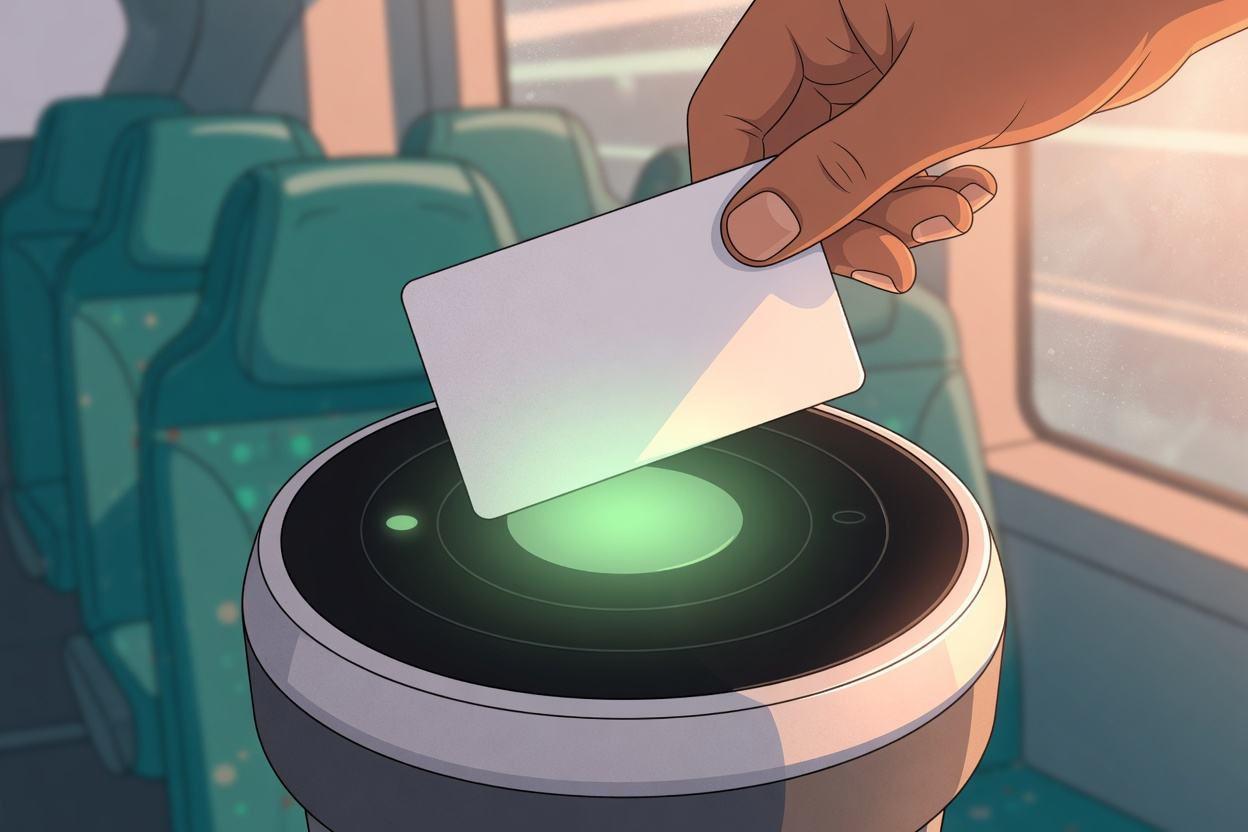
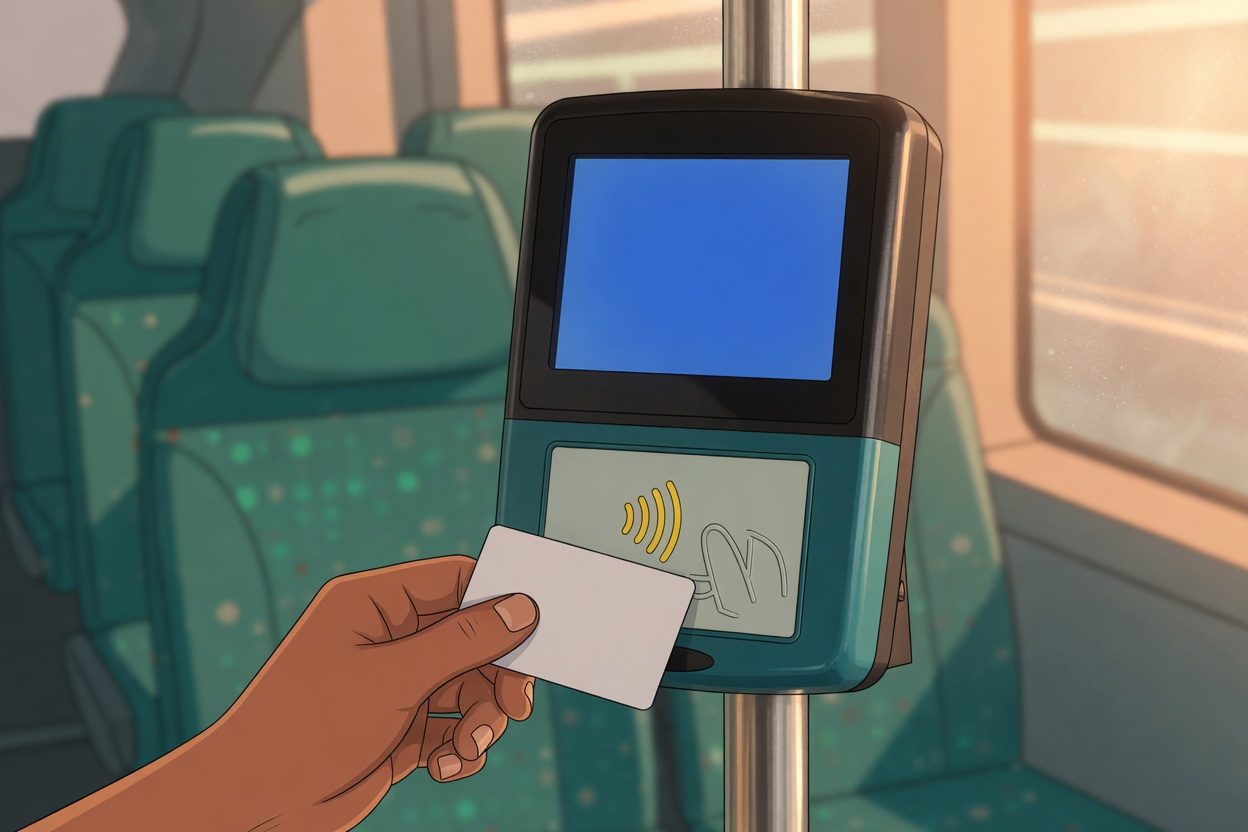
Show the bus card reader in the transit tap figure
The illustration is now a pole-mounted bus validator with the card at the lower tap pad. Site version 2026.10.09.5.

diff --git a/pages/dca-calculator.html b/pages/dca-calculator.html
@@ -18,18 +18,18 @@
     <link rel="preconnect" href="https://raw.githubusercontent.com" crossorigin>
     <link rel="stylesheet" href="https://fonts.googleapis.com/css2?family=Inter:wght@400;500;600;700&family=Playfair+Display:wght@600;700&display=swap">
     <link rel="stylesheet" href="../css/main.css">
-    <link rel="stylesheet" href="../css/dca-calculator.css?v=2026.10.09.4">
+    <link rel="stylesheet" href="../css/dca-calculator.css?v=2026.10.09.5">
     <script src="https://www.gstatic.com/firebasejs/10.12.0/firebase-app-compat.js" defer></script>
     <script src="https://www.gstatic.com/firebasejs/10.12.0/firebase-auth-compat.js" defer></script>
     <script src="https://www.gstatic.com/firebasejs/10.12.0/firebase-firestore-compat.js" defer></script>
-    <script src="../js/dca-firebase-config.js?v=2026.10.09.4" defer></script>
-    <script src="../js/dca-engine.js?v=2026.10.09.4" defer></script>
-    <script src="../js/dca-journal.js?v=2026.10.09.4" defer></script>
-    <script src="../js/dca-journal-view.js?v=2026.10.09.4" defer></script>
-    <script src="../js/dca-quotes.js?v=2026.10.09.4" defer></script>
-    <script src="../js/dca-cloud.js?v=2026.10.09.4" defer></script>
-    <script src="../js/dca-chart.js?v=2026.10.09.4" defer></script>
-    <script src="../js/dca-calculator.js?v=2026.10.09.4" defer></script>
+    <script src="../js/dca-firebase-config.js?v=2026.10.09.5" defer></script>
+    <script src="../js/dca-engine.js?v=2026.10.09.5" defer></script>
+    <script src="../js/dca-journal.js?v=2026.10.09.5" defer></script>
+    <script src="../js/dca-journal-view.js?v=2026.10.09.5" defer></script>
+    <script src="../js/dca-quotes.js?v=2026.10.09.5" defer></script>
+    <script src="../js/dca-cloud.js?v=2026.10.09.5" defer></script>
+    <script src="../js/dca-chart.js?v=2026.10.09.5" defer></script>
+    <script src="../js/dca-calculator.js?v=2026.10.09.5" defer></script>
 </head>
 <body>
     <a class="skip-link" href="#planner">Skip to calculator</a>
@@ -587,7 +587,7 @@
             <div><a href="conviction.html">Conviction</a><a href="../index.html">Portfolio</a><a href="https://github.com/AlphaeusNg/alphaeusng.github.io" target="_blank" rel="noopener noreferrer">Source</a></div>
         </div>
     </footer>
-    <script src="../js/kofi-support.js?v=2026.10.09.4" data-auto-footer defer></script>
+    <script src="../js/kofi-support.js?v=2026.10.09.5" data-auto-footer defer></script>
     <script src="../js/version.js"></script>
 </body>
 </html>

diff --git a/pages/sg-transit.html b/pages/sg-transit.html
@@ -22,7 +22,7 @@
     <link rel="stylesheet" href="https://fonts.googleapis.com/css2?family=Inter:wght@300;400;500;600;700&family=Playfair+Display:wght@500;600;700&display=swap">
     <link rel="stylesheet" href="../css/main.css">
     <link rel="stylesheet" href="../css/conviction.css">
-    <link rel="stylesheet" href="../css/sg-transit.css?v=2026.10.09.4">
+    <link rel="stylesheet" href="../css/sg-transit.css?v=2026.10.09.5">
 </head>
 <body>
     <a class="skip-link" href="#content">Skip to content</a>
@@ -175,7 +175,7 @@
             <p>Changing MRT or LRT lines inside the paid area is not one of these clocks. You stay in the system. There is no extra boarding fare. The 15 minutes matters only when you have stepped out through a fare gate.</p>
 
             <figure class="transit-figure">
-                <img src="../assets/sg-transit/tap.jpg" alt="A hand tapping a plain card on a bus reader.">
+                <img src="../assets/sg-transit/tap.jpg?v=2026.10.09.5" alt="A hand holding a plain card against the tap pad of a bus card reader.">
                 <figcaption class="transit-caption">Tap in and tap out, with the same card, on the bus and at the train. The tap out is what tells the system where the leg ended.</figcaption>
             </figure>
 
@@ -301,9 +301,9 @@
     <script src="https://www.gstatic.com/firebasejs/10.12.0/firebase-app-compat.js" defer></script>
     <script src="https://www.gstatic.com/firebasejs/10.12.0/firebase-auth-compat.js" defer></script>
     <script src="https://www.gstatic.com/firebasejs/10.12.0/firebase-firestore-compat.js" defer></script>
-    <script src="../js/sg-transit.js?v=2026.10.09.4" defer></script>
-    <script src="../js/kofi-support.js?v=2026.10.09.4" data-auto-footer defer></script>
-    <script src="../js/version.js?v=2026.10.09.4"></script>
+    <script src="../js/sg-transit.js?v=2026.10.09.5" defer></script>
+    <script src="../js/kofi-support.js?v=2026.10.09.5" data-auto-footer defer></script>
+    <script src="../js/version.js?v=2026.10.09.5"></script>
     <noscript>
         <p class="transit transit-note">Comments need JavaScript. The share links above still open.</p>
     </noscript>

diff --git a/pages/conviction.html b/pages/conviction.html
@@ -17,12 +17,12 @@
     <link rel="preconnect" href="https://raw.githubusercontent.com" crossorigin>
     <!-- Chart.js deferred with conviction.js so first paint isn't blocked -->
     <script src="https://cdn.jsdelivr.net/npm/chart.js" defer></script>
-    <script src="../js/dca-quotes.js?v=2026.10.09.4" defer></script>
-    <script src="../js/conviction.js?v=2026.10.09.4" defer></script>
+    <script src="../js/dca-quotes.js?v=2026.10.09.5" defer></script>
+    <script src="../js/conviction.js?v=2026.10.09.5" defer></script>
     <link rel="preconnect" href="https://fonts.googleapis.com">
     <link rel="preconnect" href="https://fonts.gstatic.com" crossorigin>
     <link rel="stylesheet" href="https://fonts.googleapis.com/css2?family=Inter:wght@300;400;500;600;700&family=Playfair+Display:wght@500;600;700&display=swap">
-    <link rel="stylesheet" href="../css/tailwind-pages.css?v=2026.10.09.4">
+    <link rel="stylesheet" href="../css/tailwind-pages.css?v=2026.10.09.5">
     <link rel="stylesheet" href="../css/main.css">
     <link rel="stylesheet" href="../css/conviction.css">
 
@@ -311,7 +311,7 @@
             </div>
         </div>
     </footer>
-    <script src="../js/kofi-support.js?v=2026.10.09.4" data-auto-footer defer></script>
+    <script src="../js/kofi-support.js?v=2026.10.09.5" data-auto-footer defer></script>
     <script src="../js/version.js"></script>
 </body>
 </html>

diff --git a/pages/seeking-biblical-truth/index.html b/pages/seeking-biblical-truth/index.html
@@ -21,7 +21,7 @@
   <!-- Note rendering stays eager; D3, Firebase, and html2canvas load after the public reader is usable. -->
   <script src="https://cdn.jsdelivr.net/npm/markdown-it/dist/markdown-it.min.js"></script>
   <script src="https://cdn.jsdelivr.net/npm/dompurify/dist/purify.min.js"></script>
-  <link rel="stylesheet" href="../../css/tailwind-pages.css?v=2026.10.09.4">
+  <link rel="stylesheet" href="../../css/tailwind-pages.css?v=2026.10.09.5">
   <link rel="stylesheet" href="css/main.css">
 </head>
 <body class="bg-[#0A0F1C] text-[#F3F4F6]">
@@ -117,10 +117,10 @@
     </footer>
   </main>
 
-  <script src="../../js/kofi-support.js?v=2026.10.09.4" data-auto-footer defer></script>
+  <script src="../../js/kofi-support.js?v=2026.10.09.5" data-auto-footer defer></script>
   <script src="../../js/version.js"></script>
-  <script src="js/firebase-config.js?v=2026.10.09.4"></script>
-  <script src="js/vault-cloud.js?v=2026.10.09.4"></script>
-  <script src="js/app.js?v=2026.10.09.4"></script>
+  <script src="js/firebase-config.js?v=2026.10.09.5"></script>
+  <script src="js/vault-cloud.js?v=2026.10.09.5"></script>
+  <script src="js/app.js?v=2026.10.09.5"></script>
 </body>
 </html>

diff --git a/index.html b/index.html
@@ -28,7 +28,7 @@
     
     <!-- Committed utility CSS keeps the zero-build Pages deploy while avoiding
          Tailwind's render-blocking browser compiler. -->
-    <link rel="stylesheet" href="css/tailwind-home.css?v=2026.10.09.4">
+    <link rel="stylesheet" href="css/tailwind-home.css?v=2026.10.09.5">
     
     <!-- Elegant Fonts: non-blocking for first paint, with a no-JS fallback. -->
     <link rel="stylesheet" href="https://fonts.googleapis.com/css2?family=Inter:wght@300;400;500;600&amp;family=Playfair+Display:wght@400;500;600&amp;display=swap" media="print" onload="this.onload=null;this.media='all'" data-portfolio-fonts>
@@ -1068,7 +1068,7 @@
     </template>
 
     <!-- External modular JavaScript (defer so HTML paints first) -->
-    <script src="js/kofi-support.js?v=2026.10.09.4"
+    <script src="js/kofi-support.js?v=2026.10.09.5"
             data-auto-footer
             data-message="Tell me what worked or what would help."
             defer></script>

diff --git a/pages/alphaeus-thoughts.html b/pages/alphaeus-thoughts.html
@@ -21,7 +21,7 @@
     <link rel="preconnect" href="https://fonts.gstatic.com" crossorigin>
     <link rel="stylesheet" href="https://fonts.googleapis.com/css2?family=Inter:wght@400;500;600;700&amp;family=Playfair+Display:wght@500;600;700&amp;display=swap" media="print" onload="this.onload=null;this.media='all'">
     <noscript><link rel="stylesheet" href="https://fonts.googleapis.com/css2?family=Inter:wght@400;500;600;700&amp;family=Playfair+Display:wght@500;600;700&amp;display=swap"></noscript>
-    <link rel="stylesheet" href="../css/thoughts.css?v=2026.10.09.4">
+    <link rel="stylesheet" href="../css/thoughts.css?v=2026.10.09.5">
 </head>
 <body>
     <a class="skip-link" href="#essay">Skip to the letter</a>
@@ -89,6 +89,6 @@
         </div>
     </div>
 
-    <script src="../js/thoughts.js?v=2026.10.09.4" defer></script>
+    <script src="../js/thoughts.js?v=2026.10.09.5" defer></script>
 </body>
 </html>

diff --git a/pages/feedback/index.html b/pages/feedback/index.html
@@ -9,7 +9,7 @@
   <meta name="robots" content="noindex">
   <link rel="canonical" href="https://alphaeusng.github.io/pages/feedback/">
   <link rel="icon" href="../../assets/alphaeus-portrait.jpg" type="image/jpeg">
-  <link rel="stylesheet" href="css/main.css?v=2026.10.09.4">
+  <link rel="stylesheet" href="css/main.css?v=2026.10.09.5">
 </head>
 <body>
   <main class="feedback-shell">
@@ -113,6 +113,6 @@
 
   <script src="https://www.gstatic.com/firebasejs/10.12.0/firebase-app-compat.js"></script>
   <script src="https://www.gstatic.com/firebasejs/10.12.0/firebase-firestore-compat.js"></script>
-  <script src="js/app.js?v=2026.10.09.4"></script>
+  <script src="js/app.js?v=2026.10.09.5"></script>
 </body>
 </html>

diff --git a/404.html b/404.html
@@ -7,7 +7,7 @@
   <meta name="robots" content="noindex">
   <meta name="theme-color" content="#0A0F1C">
   <link rel="icon" href="/assets/alphaeus-portrait.jpg" type="image/jpeg">
-  <link rel="stylesheet" href="css/tailwind-pages.css?v=2026.10.09.4">
+  <link rel="stylesheet" href="css/tailwind-pages.css?v=2026.10.09.5">
   <link rel="stylesheet" href="css/404.css">
 </head>
 <body class="flex items-center justify-center px-6">

diff --git a/js/version.js b/js/version.js
@@ -6,7 +6,7 @@
 (function (global) {
   "use strict";
   global.SITE_VERSION = {
-    id: "2026.10.09.4",
+    id: "2026.10.09.5",
     repo: "alphaeusng.github.io",
     label: "portfolio",
   };

diff --git a/PROGRESS.md b/PROGRESS.md
@@ -1346,3 +1346,7 @@ Validation: site and sitemap checks, JavaScript syntax, and all five thoughts-re
 ## 2026-10-09 — Publish the Singapore transit note
 
 The home page links to `pages/sg-transit.html`, a note on how a bus, MRT, and bus stay one distance fare. Visitors can share the canonical URL and post a public comment. Comments are `posts/sg-transit-one-fare/comments` on the shared Firebase project. The private feedback inbox is unchanged. Site version: 2026.10.09.4.
+
+## 2026-10-09 — Show the bus card reader on the transit note
+
+The tap illustration now shows a hand holding a plain card against the rectangular pad of a pole-mounted bus card reader, with a blank screen. The fare note, comments, and share links are unchanged. Site version: 2026.10.09.5.
